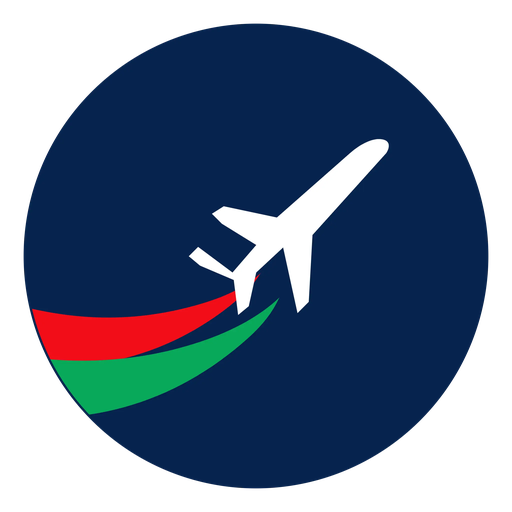
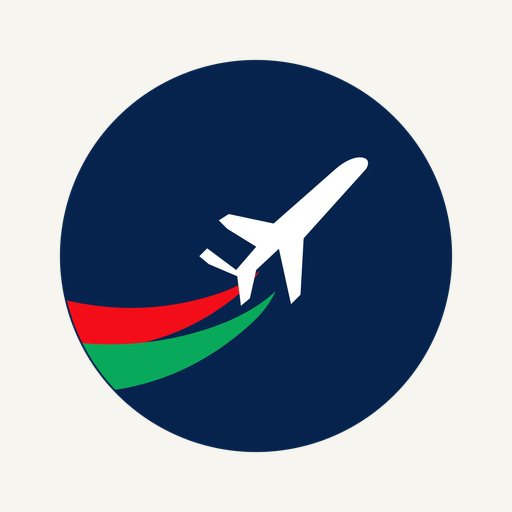
Fix carry interest contacts and optimize BridgeX branding

diff --git a/apps/web/client/src/pages/Deals.tsx b/apps/web/client/src/pages/Deals.tsx
@@ -9,7 +9,7 @@ import { useEffect, useMemo, useState } from "react";
 type Deal = { id: string; match_type: string; sender_id: string; traveler_id: string; status: string; sender_name: string | null; traveler_name: string | null; sender_phone: string; sender_delivery_address: string; traveler_phone: string; traveler_pickup_address: string; sender_last_read_at: string | null; traveler_last_read_at: string | null; last_message_body: string | null; last_message_at: string | null; last_message_sender_id: string | null; accepted_at: string };
 type DealMessage = { id: string; match_id: string; sender_id: string; body: string; created_at: string };
 type DealOrder = { id: string; match_id: string | null; reference: string; sender_id: string; traveler_id: string; fulfillment_status: string; escrow_status: string; updated_at: string };
-type SystemNotification = { id: string; type: string; title: string; body: string; link: string | null; created_at: string; read_at: string | null };
+type SystemNotification = { id: string; type: string; title: string; body: string; link: string | null; related_id: string | null; created_at: string; read_at: string | null };
 type SupportMessage = { id: string; enquiry_id: string; sender_id: string; body: string; created_at: string };
 
 const statusLabel = (value: string) => value.replace(/_/g, " ").replace(/\b\w/g, letter => letter.toUpperCase());
@@ -33,7 +33,8 @@ export default function Deals() {
   const selectedId = params.get("match") || "";
   const selectedSupportId = params.get("support") || "";
   const selected = useMemo(() => deals.find(deal => deal.id === selectedId), [deals, selectedId]);
-  const selectedSupport = useMemo(() => systemUpdates.find(update => update.id === selectedSupportId && isSupportUpdate(update)), [systemUpdates, selectedSupportId]);
+  const selectedSupport = useMemo(() => systemUpdates.find(update => isSupportUpdate(update) && (update.id === selectedSupportId || update.related_id === selectedSupportId)), [systemUpdates, selectedSupportId]);
+  const selectedSupportEnquiryId = selectedSupport?.related_id || selectedSupport?.id || "";
   const isDetail = Boolean(selected);
   const isTraveler = selected?.traveler_id === user?.id;
   const order = selected ? orders.find(item => item.match_id === selected.id) : undefined;
@@ -49,7 +50,7 @@ export default function Deals() {
     const [matchResult, orderResult, notificationResult] = await Promise.all([
       supabase.from("matches").select("id,match_type,sender_id,traveler_id,status,sender_name,traveler_name,sender_phone,sender_delivery_address,traveler_phone,traveler_pickup_address,sender_last_read_at,traveler_last_read_at,last_message_body,last_message_at,last_message_sender_id,accepted_at").order("last_message_at", { ascending: false, nullsFirst: false }).order("accepted_at", { ascending: false }).limit(250),
       supabase.from("orders").select("id,match_id,reference,sender_id,traveler_id,fulfillment_status,escrow_status,updated_at").or(`sender_id.eq.${user.id},traveler_id.eq.${user.id}`).order("updated_at", { ascending: false }).limit(500),
-      supabase.from("notifications").select("id,type,title,body,link,created_at,read_at").eq("user_id", user.id).order("created_at", { ascending: false }).limit(150),
+      supabase.from("notifications").select("id,type,title,body,link,related_id,created_at,read_at").eq("user_id", user.id).order("created_at", { ascending: false }).limit(150),
     ]);
     const error = matchResult.error?.message || orderResult.error?.message || notificationResult.error?.message;
     if (error) setNotice(error);
@@ -70,21 +71,21 @@ export default function Deals() {
   useEffect(() => { void load(); }, [user?.id]);
   useEffect(() => { if (selected?.id) void loadMessages(selected.id); else setMessages([]); }, [selected?.id]);
   useEffect(() => { if (!selectedSupport || selectedSupport.read_at) return; const readAt = new Date().toISOString(); void supabase.from("notifications").update({ read_at: readAt }).eq("id", selectedSupport.id).then(() => setSystemUpdates(current => current.map(update => update.id === selectedSupport.id ? { ...update, read_at: readAt } : update))); }, [selectedSupport?.id]);
-  useEffect(() => { if (!selectedSupport) { setSupportMessages([]); return; } void supabase.from("contact_enquiry_messages").select("id,enquiry_id,sender_id,body,created_at").eq("enquiry_id", selectedSupport.id).order("created_at", { ascending: true }).limit(200).then(({ data }) => setSupportMessages((data ?? []) as SupportMessage[])); }, [selectedSupport?.id]);
+  useEffect(() => { if (!selectedSupportEnquiryId) { setSupportMessages([]); return; } void supabase.from("contact_enquiry_messages").select("id,enquiry_id,sender_id,body,created_at").eq("enquiry_id", selectedSupportEnquiryId).order("created_at", { ascending: true }).limit(200).then(({ data, error }) => { if (error) setNotice(error.message); else setSupportMessages((data ?? []) as SupportMessage[]); }); }, [selectedSupportEnquiryId]);
 
   const send = async () => { if (!user || !selected || !draft.trim()) return; setBusy(true); const { error } = await supabase.from("match_messages").insert({ match_id: selected.id, sender_id: user.id, body: draft.trim() }); setBusy(false); if (error) return setNotice(error.message); setDraft(""); playSendTone(); await Promise.all([loadMessages(selected.id), load()]); };
   const updateMyContact = async () => { if (!selected) return; const phone = window.prompt("Your phone number for this protected deal", isTraveler ? selected.traveler_phone : selected.sender_phone); if (phone === null) return; const address = window.prompt("Your exact delivery or pickup address for this protected deal", isTraveler ? selected.traveler_pickup_address : selected.sender_delivery_address); if (address === null) return; setBusy(true); const { error } = await supabase.rpc("update_bridgex_match_contact", { p_match_id: selected.id, p_phone: phone, p_address: address }); setBusy(false); if (error) return setNotice(error.message); setNotice("Protected contact details updated and your counterpart was notified."); await load(); };
   const updateTravelerOrder = async (status: string) => { if (!order) return; setBusy(true); const { error } = await supabase.rpc("update_bridgex_traveler_order", { p_order_id: order.id, p_fulfillment_status: status }); setBusy(false); if (error) return setNotice(error.message); setNotice(`Order updated to ${statusLabel(status)}. The sender was notified.`); await load(); };
   const openSystemUpdate = async (update: SystemNotification) => { if (!update.read_at) await supabase.from("notifications").update({ read_at: new Date().toISOString() }).eq("id", update.id); window.location.assign(update.link || "/notifications"); };
-  const sendSupport = async () => { if (!selectedSupport || !supportDraft.trim()) return; setBusy(true); const { error } = await supabase.rpc("send_bridgex_support_message", { p_enquiry_id: selectedSupport.id, p_body: supportDraft.trim() }); setBusy(false); if (error) return setNotice(error.message); setSupportDraft(""); playSendTone(); const { data } = await supabase.from("contact_enquiry_messages").select("id,enquiry_id,sender_id,body,created_at").eq("enquiry_id", selectedSupport.id).order("created_at", { ascending: true }).limit(200); setSupportMessages((data ?? []) as SupportMessage[]); };
+  const sendSupport = async () => { if (!selectedSupportEnquiryId || !supportDraft.trim()) return; setBusy(true); const { error } = await supabase.rpc("send_bridgex_support_message", { p_enquiry_id: selectedSupportEnquiryId, p_body: supportDraft.trim() }); setBusy(false); if (error) return setNotice(error.message); setSupportDraft(""); playSendTone(); const { data, error: reloadError } = await supabase.from("contact_enquiry_messages").select("id,enquiry_id,sender_id,body,created_at").eq("enquiry_id", selectedSupportEnquiryId).order("created_at", { ascending: true }).limit(200); if (reloadError) return setNotice(reloadError.message); setSupportMessages((data ?? []) as SupportMessage[]); };
 
   if (loading) return <p className="rounded-2xl bg-white p-6 text-sm font-semibold text-[#647174]">Loading messages…</p>;
 
-  if (selectedSupport) { const visibleSupportMessages = supportMessages.length ? supportMessages : [{ id: selectedSupport.id, enquiry_id: selectedSupport.id, sender_id: "admin", body: selectedSupport.body, created_at: selectedSupport.created_at }]; return <div><Button onClick={() => window.location.assign("/dashboard/deals")} variant="outline" className="rounded-xl bg-white"><ArrowLeft className="mr-2 size-4" />Back to Inbox</Button><section className="mt-6 overflow-hidden rounded-3xl border border-[#172126]/10 bg-white"><div className="border-b border-[#172126]/8 p-5"><p className="text-xs font-bold uppercase tracking-[0.13em] text-[#2d8d62]">BridgeX support</p><h1 className="mt-1 text-2xl font-bold">BridgeX Admin</h1><p className="mt-1 text-sm text-[#637073]">Private support conversation</p></div><div className="min-h-[260px] space-y-3 bg-[#f6f4ee] p-5">{visibleSupportMessages.map(message => <div key={message.id} className={`max-w-[82%] rounded-2xl px-4 py-3 text-sm ${message.sender_id === user?.id ? "ml-auto bg-[#172126] text-white" : "bg-white text-[#172126]"}`}><p className={`font-bold ${message.sender_id === user?.id ? "text-[#c3d0c9]" : "text-[#176447]"}`}>{message.sender_id === user?.id ? "You" : "BridgeX Admin"}</p><p className="mt-2 whitespace-pre-wrap leading-6">{message.body}</p><p className={`mt-2 text-[10px] ${message.sender_id === user?.id ? "text-[#c3d0c9]" : "text-[#738083]"}`}>{new Date(message.created_at).toLocaleString()}</p></div>)}</div><div className="flex gap-2 border-t border-[#172126]/8 p-4"><Textarea value={supportDraft} onChange={event => setSupportDraft(event.target.value)} placeholder="Reply to BridgeX Admin…" className="min-h-11 flex-1 rounded-xl" /><Button onClick={() => void sendSupport()} disabled={busy || !supportDraft.trim()} className="h-11 rounded-xl bg-[#172126]"><Send className="size-4" /></Button></div></section></div>; }
+  if (selectedSupport) { const visibleSupportMessages = supportMessages.length ? supportMessages : [{ id: selectedSupport.id, enquiry_id: selectedSupportEnquiryId, sender_id: "admin", body: selectedSupport.body, created_at: selectedSupport.created_at }]; return <div><Button onClick={() => window.location.assign("/dashboard/deals")} variant="outline" className="rounded-xl bg-white"><ArrowLeft className="mr-2 size-4" />Back to Inbox</Button>{notice && <p className="mt-5 rounded-xl bg-[#f8e8e5] px-3 py-2 text-sm font-semibold text-[#9b4b3e]">{notice}</p>}<section className="mt-6 overflow-hidden rounded-3xl border border-[#172126]/10 bg-white"><div className="border-b border-[#172126]/8 p-5"><p className="text-xs font-bold uppercase tracking-[0.13em] text-[#2d8d62]">BridgeX support</p><h1 className="mt-1 text-2xl font-bold">BridgeX Admin</h1><p className="mt-1 text-sm text-[#637073]">Private support conversation</p></div><div className="min-h-[260px] space-y-3 bg-[#f6f4ee] p-5">{visibleSupportMessages.map(message => <div key={message.id} className={`max-w-[82%] rounded-2xl px-4 py-3 text-sm ${message.sender_id === user?.id ? "ml-auto bg-[#172126] text-white" : "bg-white text-[#172126]"}`}><p className={`font-bold ${message.sender_id === user?.id ? "text-[#c3d0c9]" : "text-[#176447]"}`}>{message.sender_id === user?.id ? "You" : "BridgeX Admin"}</p><p className="mt-2 whitespace-pre-wrap leading-6">{message.body}</p><p className={`mt-2 text-[10px] ${message.sender_id === user?.id ? "text-[#c3d0c9]" : "text-[#738083]"}`}>{new Date(message.created_at).toLocaleString()}</p></div>)}</div><div className="flex gap-2 border-t border-[#172126]/8 p-4"><Textarea value={supportDraft} onChange={event => setSupportDraft(event.target.value)} placeholder="Reply to BridgeX Admin…" className="min-h-11 flex-1 rounded-xl" /><Button onClick={() => void sendSupport()} disabled={busy || !supportDraft.trim()} className="h-11 rounded-xl bg-[#172126]"><Send className="size-4" /></Button></div></section></div>; }
 
   const supportUpdates = systemUpdates.filter(isSupportUpdate);
   const otherSystemUpdates = systemUpdates.filter(update => !isSupportUpdate(update)).slice(0, 30);
-  if (!isDetail) return <div><div><p className="text-xs font-bold uppercase tracking-[0.16em] text-[#2d8d62]">Protected communication</p><h1 className="mt-2 font-display text-4xl font-bold tracking-[-0.055em]">Inbox</h1><p className="mt-2 text-sm text-[#637073]">Accepted protected deals</p></div>{notice && <p className="mt-5 rounded-xl bg-[#f8e8e5] px-3 py-2 text-sm font-semibold text-[#9b4b3e]">{notice}</p>}<div className="mt-7 overflow-hidden rounded-3xl border border-[#172126]/10 bg-white">{deals.length ? deals.map(deal => <button key={deal.id} onClick={() => openDeal(deal.id)} className="flex w-full items-start gap-3 border-b border-[#172126]/6 px-5 py-4 text-left transition hover:bg-[#f0f7f2]"><span className="grid size-10 shrink-0 place-items-center rounded-full bg-[#dff5ea] text-sm font-bold text-[#176447]">{counterpart(deal).slice(0, 1).toUpperCase()}</span><span className="min-w-0 flex-1"><span className="flex items-center justify-between gap-2"><span className="truncate text-sm font-bold">{counterpart(deal)}</span><span className="shrink-0 text-[11px] text-[#687579]">{displayTime(deal.last_message_at || deal.accepted_at)}</span></span><span className="mt-1 flex items-center gap-2"><span className={`truncate text-xs ${unread(deal) ? "font-bold text-[#172126]" : "text-[#687579]"}`}>{deal.last_message_body || `${deal.match_type === "offer" ? "Traveler offer" : "Carry-space interest"} accepted`}</span>{unread(deal) && <span aria-label="Unread message" className="size-2 shrink-0 rounded-full bg-[#2d8d62]" />}</span></span></button>) : <div className="p-10 text-center"><ShieldCheck className="mx-auto size-8 text-[#2d8d62]" /><h2 className="mt-4 font-bold">No accepted match yet.</h2><p className="mt-2 text-sm text-[#647174]">Accepted offers and interests will appear here as protected conversations.</p></div>}</div>{supportUpdates.length > 0 && <section className="mt-8"><div className="flex items-center gap-2"><MessageCircle className="size-4 text-[#2d8d62]" /><h2 className="font-bold">BridgeX Admin</h2></div><div className="mt-3 overflow-hidden rounded-3xl border border-[#172126]/10 bg-white">{supportUpdates.map(update => <button key={update.id} onClick={() => window.location.assign(`/dashboard/deals?support=${encodeURIComponent(update.id)}`)} className="flex w-full items-start gap-3 border-b border-[#172126]/6 px-5 py-4 text-left transition hover:bg-[#f8faf7]"><span className="grid size-10 shrink-0 place-items-center rounded-full bg-[#dff5ea] text-sm font-bold text-[#176447]">B</span><span className="min-w-0"><span className="flex items-center gap-3"><span className="text-sm font-bold">BridgeX Admin</span><span className="text-[11px] text-[#687579]">{displayTime(update.created_at)}</span>{!update.read_at && <span aria-label="Unread support reply" className="size-2 rounded-full bg-[#e2a33f]" />}</span><span className="mt-1 block truncate text-xs text-[#687579]">{update.body}</span></span></button>)}</div></section>}<section className="mt-8"><div className="flex items-center gap-2"><Bell className="size-4 text-[#2d8d62]" /><h2 className="font-bold">Updates</h2></div><p className="mt-1 text-xs text-[#687579]">Newest 30 notifications</p><div className="mt-3 overflow-hidden rounded-3xl border border-[#172126]/10 bg-white">{otherSystemUpdates.length ? otherSystemUpdates.map(update => <button key={update.id} onClick={() => void openSystemUpdate(update)} className="flex w-full items-start gap-3 border-b border-[#172126]/6 px-5 py-4 text-left transition hover:bg-[#f8faf7]"><span className={`mt-1.5 size-2 shrink-0 rounded-full ${update.read_at ? "bg-[#d2d8d5]" : "bg-[#e2a33f]"}`} /><span className="min-w-0"><span className="flex items-center justify-between gap-3"><span className="truncate text-sm font-bold">{update.title}</span><span className="shrink-0 text-[11px] text-[#687579]">{displayTime(update.created_at)}</span></span><span className="mt-1 block truncate text-xs text-[#687579]">{update.body}</span></span></button>) : <p className="p-5 text-sm text-[#647174]">No updates yet.</p>}</div></section></div>;
+  if (!isDetail) return <div><div><p className="text-xs font-bold uppercase tracking-[0.16em] text-[#2d8d62]">Protected communication</p><h1 className="mt-2 font-display text-4xl font-bold tracking-[-0.055em]">Inbox</h1><p className="mt-2 text-sm text-[#637073]">Accepted protected deals</p></div>{notice && <p className="mt-5 rounded-xl bg-[#f8e8e5] px-3 py-2 text-sm font-semibold text-[#9b4b3e]">{notice}</p>}<div className="mt-7 overflow-hidden rounded-3xl border border-[#172126]/10 bg-white">{deals.length ? deals.map(deal => <button key={deal.id} onClick={() => openDeal(deal.id)} className="flex w-full items-start gap-3 border-b border-[#172126]/6 px-5 py-4 text-left transition hover:bg-[#f0f7f2]"><span className="grid size-10 shrink-0 place-items-center rounded-full bg-[#dff5ea] text-sm font-bold text-[#176447]">{counterpart(deal).slice(0, 1).toUpperCase()}</span><span className="min-w-0 flex-1"><span className="flex items-center justify-between gap-2"><span className="truncate text-sm font-bold">{counterpart(deal)}</span><span className="shrink-0 text-[11px] text-[#687579]">{displayTime(deal.last_message_at || deal.accepted_at)}</span></span><span className="mt-1 flex items-center gap-2"><span className={`truncate text-xs ${unread(deal) ? "font-bold text-[#172126]" : "text-[#687579]"}`}>{deal.last_message_body || `${deal.match_type === "offer" ? "Traveler offer" : "Carry-space interest"} accepted`}</span>{unread(deal) && <span aria-label="Unread message" className="size-2 shrink-0 rounded-full bg-[#2d8d62]" />}</span></span></button>) : <div className="p-10 text-center"><ShieldCheck className="mx-auto size-8 text-[#2d8d62]" /><h2 className="mt-4 font-bold">No accepted match yet.</h2><p className="mt-2 text-sm text-[#647174]">Accepted offers and interests will appear here as protected conversations.</p></div>}</div>{supportUpdates.length > 0 && <section className="mt-8"><div className="flex items-center gap-2"><MessageCircle className="size-4 text-[#2d8d62]" /><h2 className="font-bold">BridgeX Admin</h2></div><div className="mt-3 overflow-hidden rounded-3xl border border-[#172126]/10 bg-white">{supportUpdates.map(update => <button key={update.id} onClick={() => window.location.assign(`/dashboard/deals?support=${encodeURIComponent(update.related_id || update.id)}`)} className="flex w-full items-start gap-3 border-b border-[#172126]/6 px-5 py-4 text-left transition hover:bg-[#f8faf7]"><span className="grid size-10 shrink-0 place-items-center rounded-full bg-[#dff5ea] text-sm font-bold text-[#176447]">B</span><span className="min-w-0"><span className="flex items-center gap-3"><span className="text-sm font-bold">BridgeX Admin</span><span className="text-[11px] text-[#687579]">{displayTime(update.created_at)}</span>{!update.read_at && <span aria-label="Unread support reply" className="size-2 rounded-full bg-[#e2a33f]" />}</span><span className="mt-1 block truncate text-xs text-[#687579]">{update.body}</span></span></button>)}</div></section>}<section className="mt-8"><div className="flex items-center gap-2"><Bell className="size-4 text-[#2d8d62]" /><h2 className="font-bold">Updates</h2></div><p className="mt-1 text-xs text-[#687579]">Newest 30 notifications</p><div className="mt-3 overflow-hidden rounded-3xl border border-[#172126]/10 bg-white">{otherSystemUpdates.length ? otherSystemUpdates.map(update => <button key={update.id} onClick={() => void openSystemUpdate(update)} className="flex w-full items-start gap-3 border-b border-[#172126]/6 px-5 py-4 text-left transition hover:bg-[#f8faf7]"><span className={`mt-1.5 size-2 shrink-0 rounded-full ${update.read_at ? "bg-[#d2d8d5]" : "bg-[#e2a33f]"}`} /><span className="min-w-0"><span className="flex items-center justify-between gap-3"><span className="truncate text-sm font-bold">{update.title}</span><span className="shrink-0 text-[11px] text-[#687579]">{displayTime(update.created_at)}</span></span><span className="mt-1 block truncate text-xs text-[#687579]">{update.body}</span></span></button>) : <p className="p-5 text-sm text-[#647174]">No updates yet.</p>}</div></section></div>;
   if (!selected) return <p className="rounded-2xl bg-white p-6 text-sm text-[#647174]">This protected conversation is no longer available.</p>;
 
   const dealOrderCount = orders.filter(item => (item.sender_id === user?.id && item.traveler_id === counterpartId(selected)) || (item.traveler_id === user?.id && item.sender_id === counterpartId(selected))).length;

diff --git a/apps/web/client/src/pages/InterestPage.tsx b/apps/web/client/src/pages/InterestPage.tsx
@@ -23,13 +23,18 @@ export default function InterestPage() {
   const [weight, setWeight] = useState("");
   const [offer, setOffer] = useState("");
   const [deliveryRequiredBy, setDeliveryRequiredBy] = useState("");
+  const [deliveryRecipientName, setDeliveryRecipientName] = useState("");
+  const [deliveryPhone, setDeliveryPhone] = useState("");
+  const [deliveryAddress, setDeliveryAddress] = useState("");
+  const [deliveryCity, setDeliveryCity] = useState("");
+  const [deliveryCountry, setDeliveryCountry] = useState("");
   const [loading, setLoading] = useState(true);
   const [message, setMessage] = useState("");
   const [id] = useState(() => new URLSearchParams(window.location.search).get("listing"));
 
   useEffect(() => {
     if (!id) return void setLoading(false);
-    void supabase.from("carry_listings").select("id,user_id,origin_country,origin_city,destination_country,destination_city,available_weight_kg,departure_at,estimated_delivery_at,price_bdt,currency,accepted_categories,accepted_item_quantities").eq("id", id).eq("status", "open").maybeSingle().then(({ data }) => { setListing(data as Listing | null); setLoading(false); });
+    void supabase.from("carry_listings").select("id,user_id,origin_country,origin_city,destination_country,destination_city,available_weight_kg,departure_at,estimated_delivery_at,price_bdt,currency,accepted_categories,accepted_item_quantities").eq("id", id).eq("status", "open").maybeSingle().then(({ data }) => { const nextListing = data as Listing | null; setListing(nextListing); setDeliveryCountry(nextListing?.destination_country ?? ""); setDeliveryCity(nextListing?.destination_city ?? ""); setLoading(false); });
   }, [id]);
 
   const currency = listing?.currency || "BDT";
@@ -40,10 +45,10 @@ export default function InterestPage() {
     event.preventDefault();
     if (!isAuthenticated || !user) return go("/access");
     if (!listing || listing.user_id === user.id) return setMessage("Choose another open carry listing.");
-    if (!categories.length || !weight || !offer || !deliveryRequiredBy) return setMessage("Select categories and provide total weight, total offer, and the delivery-required date.");
+    if (!categories.length || !weight || !offer || !deliveryRequiredBy || !deliveryPhone.trim() || !deliveryAddress.trim() || !deliveryCity.trim() || !deliveryCountry.trim()) return setMessage("Select categories and provide the delivery date, total weight, offer, phone number, and exact destination delivery location.");
     const normalizedItemQuantities = Object.fromEntries(selectedQuantityItems.map(item => [item, Number(itemQuantities[item] || 0)]));
     if (Object.values(normalizedItemQuantities).some(quantityValue => quantityValue < 1)) return setMessage("Enter a correct quantity for every selected Mobile phone, Laptop, or Camera item.");
-    const payload = { listing_id: listing.id, sender_id: user.id, note: note.trim() || null, status: "pending", categories, quantity_description: quantity.trim() || null, item_quantities: normalizedItemQuantities, weight_kg: Number(weight), total_offer_bdt: Number(offer), currency, delivery_required_by: deliveryRequiredBy };
+    const payload = { listing_id: listing.id, sender_id: user.id, note: note.trim() || null, status: "pending", categories, quantity_description: quantity.trim() || null, item_quantities: normalizedItemQuantities, weight_kg: Number(weight), total_offer_bdt: Number(offer), currency, delivery_required_by: deliveryRequiredBy, delivery_recipient_name: deliveryRecipientName.trim() || null, delivery_phone: deliveryPhone.trim(), delivery_address: deliveryAddress.trim(), delivery_city: deliveryCity.trim(), delivery_country: deliveryCountry.trim() };
     const { data: existing, error: existingError } = await supabase.from("listing_interests").select("id,status").eq("listing_id", listing.id).eq("sender_id", user.id).maybeSingle();
     if (existingError) return setMessage(existingError.message);
     if (existing?.status === "accepted") return setMessage("Your interest in this carry space is already accepted. Open Messages to continue the protected deal.");
@@ -53,5 +58,5 @@ export default function InterestPage() {
     setMessage(existing ? "Your interest was updated and the traveler was notified." : "Interest sent. Best wishes for a safe and lawful delivery discussion.");
   };
 
-  return <PublicLayout><main className="px-5 py-10"><div className="mx-auto max-w-3xl"><Link href="/marketplace" className="text-sm font-bold text-[#176447]"><ArrowLeft className="mr-1 inline size-4" />Back to carry space</Link><h1 className="mt-6 font-display text-4xl font-bold">Show interest</h1><p className="mt-2 text-sm">{listing ? `${listing.origin_city}, ${listing.origin_country} → ${listing.destination_city}, ${listing.destination_country ?? "Destination"} · ${listing.available_weight_kg} kg available` : "Loading listing…"}</p>{listing?.estimated_delivery_at && <p className="mt-1 text-sm text-[#637073]">Traveler’s estimated delivery: {new Date(listing.estimated_delivery_at).toLocaleDateString()}</p>}<form onSubmit={submit} className="mt-6 grid gap-5 rounded-3xl bg-white p-6"><div className="rounded-2xl border border-[#e4c984] bg-[#fff9ea] p-4 text-xs leading-5 text-[#6e5624]"><AlertTriangle className="mr-1 inline size-4" />Do not send illegal, restricted, dangerous, or prohibited items. You are responsible for accurate descriptions, applicable customs, airline, carrier, and legal requirements. Do not conceal items or provide false information. Prohibited activity may lead to post removal, account restriction, cancellation, or reports to authorities where required by law.</div><div><b className="text-sm">Items and categories this traveler accepts</b><div className="mt-2 grid gap-2 rounded-xl border p-3 sm:grid-cols-2">{availableCategories.map(category => <label key={category} className="text-sm"><input type="checkbox" checked={categories.includes(category)} onChange={() => toggle(category)} /> {category}</label>)}</div></div>{selectedQuantityItems.length > 0 && <div className="grid gap-3 rounded-2xl bg-[#f4faf5] p-4 sm:grid-cols-3"><p className="text-sm font-bold sm:col-span-3">Exact item quantities</p>{selectedQuantityItems.map(item => <label key={item} className="grid gap-1 text-sm font-bold">{item}<Input required min="1" type="number" inputMode="numeric" value={itemQuantities[item] ?? ""} onChange={event => setItemQuantities(current => ({ ...current, [item]: event.target.value }))} placeholder="Quantity" /></label>)}</div>}<div className="grid gap-4 sm:grid-cols-2"><label className="text-sm font-bold">Other item quantity / packaging (optional)<Input value={quantity} onChange={event => setQuantity(event.target.value)} placeholder="e.g. 3 boxes" className="mt-2" /></label><label className="text-sm font-bold">Delivery Required Within — Date<Input required type="date" min={new Date().toISOString().slice(0, 10)} value={deliveryRequiredBy} onChange={event => setDeliveryRequiredBy(event.target.value)} className="mt-2" /></label><label className="text-sm font-bold">Total weight (kg)<Input required min="0.01" step="0.01" inputMode="decimal" value={weight} onChange={event => setWeight(event.target.value)} className="mt-2" /></label><label className="text-sm font-bold">Total offer ({currency})<Input required min="0" step="0.01" inputMode="decimal" value={offer} onChange={event => setOffer(event.target.value)} className="mt-2" /></label></div><Textarea value={note} onChange={event => setNote(event.target.value)} placeholder="Describe all selected items and handling needs." /><Button disabled={loading} className="h-11 bg-[#172126]">Send interest</Button>{message && <p className="rounded-xl bg-[#edf8f0] p-3 text-sm font-semibold text-[#176447]">{message}</p>}</form></div></main></PublicLayout>;
+  return <PublicLayout><main className="px-5 py-10"><div className="mx-auto max-w-3xl"><Link href="/marketplace" className="text-sm font-bold text-[#176447]"><ArrowLeft className="mr-1 inline size-4" />Back to carry space</Link><h1 className="mt-6 font-display text-4xl font-bold">Show interest</h1><p className="mt-2 text-sm">{listing ? `${listing.origin_city}, ${listing.origin_country} → ${listing.destination_city}, ${listing.destination_country ?? "Destination"} · ${listing.available_weight_kg} kg available` : "Loading listing…"}</p>{listing?.estimated_delivery_at && <p className="mt-1 text-sm text-[#637073]">Traveler’s estimated delivery: {new Date(listing.estimated_delivery_at).toLocaleDateString()}</p>}<form onSubmit={submit} className="mt-6 grid gap-5 rounded-3xl bg-white p-6"><div className="rounded-2xl border border-[#e4c984] bg-[#fff9ea] p-4 text-xs leading-5 text-[#6e5624]"><AlertTriangle className="mr-1 inline size-4" />Do not send illegal, restricted, dangerous, or prohibited items. You are responsible for accurate descriptions, applicable customs, airline, carrier, and legal requirements. Do not conceal items or provide false information. Prohibited activity may lead to post removal, account restriction, cancellation, or reports to authorities where required by law.</div><div><b className="text-sm">Items and categories this traveler accepts</b><div className="mt-2 grid gap-2 rounded-xl border p-3 sm:grid-cols-2">{availableCategories.map(category => <label key={category} className="text-sm"><input type="checkbox" checked={categories.includes(category)} onChange={() => toggle(category)} /> {category}</label>)}</div></div>{selectedQuantityItems.length > 0 && <div className="grid gap-3 rounded-2xl bg-[#f4faf5] p-4 sm:grid-cols-3"><p className="text-sm font-bold sm:col-span-3">Exact item quantities</p>{selectedQuantityItems.map(item => <label key={item} className="grid gap-1 text-sm font-bold">{item}<Input required min="1" type="number" inputMode="numeric" value={itemQuantities[item] ?? ""} onChange={event => setItemQuantities(current => ({ ...current, [item]: event.target.value }))} placeholder="Quantity" /></label>)}</div>}<div className="grid gap-4 sm:grid-cols-2"><label className="text-sm font-bold">Other item quantity / packaging (optional)<Input value={quantity} onChange={event => setQuantity(event.target.value)} placeholder="e.g. 3 boxes" className="mt-2" /></label><label className="text-sm font-bold">Delivery Required Within — Date<Input required type="date" min={new Date().toISOString().slice(0, 10)} value={deliveryRequiredBy} onChange={event => setDeliveryRequiredBy(event.target.value)} className="mt-2" /></label><label className="text-sm font-bold">Total weight (kg)<Input required min="0.01" step="0.01" inputMode="decimal" value={weight} onChange={event => setWeight(event.target.value)} className="mt-2" /></label><label className="text-sm font-bold">Total offer ({currency})<Input required min="0" step="0.01" inputMode="decimal" value={offer} onChange={event => setOffer(event.target.value)} className="mt-2" /></label></div><section className="rounded-2xl border border-[#dce7df] bg-[#f6fbf7] p-4"><p className="text-sm font-bold">Destination delivery details</p><p className="mt-1 text-xs leading-5 text-[#637073]">Only the traveler you match with can view these protected details. They are required so the traveler can complete delivery in the destination country.</p><div className="mt-4 grid gap-4 sm:grid-cols-2"><label className="text-sm font-bold">Recipient name (optional)<Input value={deliveryRecipientName} onChange={event => setDeliveryRecipientName(event.target.value)} placeholder="Recipient name" className="mt-2" /></label><label className="text-sm font-bold">Recipient phone number<Input required value={deliveryPhone} onChange={event => setDeliveryPhone(event.target.value)} placeholder="Country code and phone number" className="mt-2" /></label><label className="text-sm font-bold">Destination country<Input required value={deliveryCountry} onChange={event => setDeliveryCountry(event.target.value)} placeholder="Country" className="mt-2" /></label><label className="text-sm font-bold">Destination city<Input required value={deliveryCity} onChange={event => setDeliveryCity(event.target.value)} placeholder="City" className="mt-2" /></label></div><label className="mt-4 grid gap-2 text-sm font-bold">Exact delivery location and address<Textarea required value={deliveryAddress} onChange={event => setDeliveryAddress(event.target.value)} placeholder="Building, street, district, delivery instructions, and any safe landmark." /></label></section><Textarea value={note} onChange={event => setNote(event.target.value)} placeholder="Describe all selected items and handling needs." /><Button disabled={loading} className="h-11 bg-[#172126]">Send interest</Button>{message && <p className="rounded-xl bg-[#edf8f0] p-3 text-sm font-semibold text-[#176447]">{message}</p>}</form></div></main></PublicLayout>;
 }

diff --git a/apps/web/server/currencyBranding.test.ts b/apps/web/server/currencyBranding.test.ts
@@ -20,9 +20,35 @@ describe("BridgeX currency, cargo, support, and brand release safeguards", () =>
     expect(read("apps/web/client/src/pages/InterestPage.tsx")).toContain("Total offer ({currency})");
   });
 
+  it("requires protected destination delivery contacts for carry interests and persists them to the accepted match", () => {
+    const migration = read("supabase/migrations/202608191330_carry_interest_delivery_contacts.sql");
+    const interestPage = read("apps/web/client/src/pages/InterestPage.tsx");
+    expect(migration).toContain("delivery_phone text");
+    expect(migration).toContain("v_interest.delivery_address");
+    expect(migration).toContain("v_interest.delivery_phone");
+    expect(interestPage).toContain("Destination delivery details");
+    expect(interestPage).toContain("Exact delivery location and address");
+  });
+
+  it("uses the notification related enquiry ID for private BridgeX Admin replies", () => {
+    const deals = read("apps/web/client/src/pages/Deals.tsx");
+    expect(deals).toContain("const selectedSupportEnquiryId = selectedSupport?.related_id || selectedSupport?.id || \"\"");
+    expect(deals).toContain("p_enquiry_id: selectedSupportEnquiryId");
+    expect(deals).toContain("support=${encodeURIComponent(update.related_id || update.id)}");
+  });
+
   it("uses the supplied logo for shared web branding, browser favicon, and mobile app configuration", () => {
-    expect(read("apps/web/client/src/components/bridgex/Brand.tsx")).toContain("bridgex-logo.png");
+    expect(read("apps/web/client/src/components/bridgex/Brand.tsx")).toContain("/bridgex-logo.webp");
     expect(read("apps/web/client/index.html")).toContain("/favicon.ico");
     expect(read("apps/mobile/app.json")).toContain("./assets/icon.png");
+    expect(read("apps/mobile/app.json")).toContain('"versionCode": 5');
+  });
+
+  it("pairs sound categories with lightweight visual feedback cues that respect motion preferences", () => {
+    const feedback = read("apps/web/client/src/lib/feedback.ts");
+    const styles = read("apps/web/client/src/index.css");
+    expect(feedback).toContain("showBridgeXVisualFeedback(kind)");
+    expect(styles).toContain(".bridgex-feedback-cue--success");
+    expect(styles).toContain("prefers-reduced-motion: reduce");
   });
 });

diff --git a/apps/web/client/src/lib/feedback.ts b/apps/web/client/src/lib/feedback.ts
@@ -1,9 +1,21 @@
 export type BridgeXFeedback = "tap" | "notice" | "success" | "warning" | "error";
 
 const feedbackPatterns: Record<BridgeXFeedback, number[]> = { tap: [440], notice: [587, 659], success: [523, 659, 784], warning: [440, 392], error: [277, 220] };
+const feedbackSymbols: Record<BridgeXFeedback, string> = { tap: "", notice: "•", success: "✓", warning: "!", error: "×" };
+
+function showBridgeXVisualFeedback(kind: BridgeXFeedback) {
+  if (window.matchMedia?.("(prefers-reduced-motion: reduce)").matches) return;
+  const cue = document.createElement("span");
+  cue.className = `bridgex-feedback-cue bridgex-feedback-cue--${kind}`;
+  cue.setAttribute("aria-hidden", "true");
+  cue.textContent = feedbackSymbols[kind];
+  document.body.appendChild(cue);
+  window.setTimeout(() => cue.remove(), kind === "tap" ? 320 : 760);
+}
 
 export function playBridgeXFeedback(kind: BridgeXFeedback = "tap") {
   try {
+    showBridgeXVisualFeedback(kind);
     const bridge = (window as Window & { ReactNativeWebView?: { postMessage: (message: string) => void } }).ReactNativeWebView;
     if (bridge) bridge.postMessage(JSON.stringify({ type: "BRIDGEX_FEEDBACK", kind }));
     const AudioContextClass = window.AudioContext || (window as Window & { webkitAudioContext?: typeof AudioContext }).webkitAudioContext;

diff --git a/apps/web/client/src/index.css b/apps/web/client/src/index.css
@@ -164,10 +164,40 @@
   button:active:not(:disabled), [role="button"]:active:not([aria-disabled="true"]) {
     transform: scale(0.97);
   }
+
+  .bridgex-feedback-cue {
+    position: fixed;
+    z-index: 10000;
+    top: max(0.9rem, env(safe-area-inset-top));
+    right: 1rem;
+    display: grid;
+    width: 1.7rem;
+    height: 1.7rem;
+    place-items: center;
+    border-radius: 999px;
+    color: white;
+    font-size: 1rem;
+    font-weight: 800;
+    pointer-events: none;
+    box-shadow: 0 12px 28px rgba(23, 33, 38, 0.18);
+    animation: bridgex-feedback-cue 680ms cubic-bezier(0.23, 1, 0.32, 1) forwards;
+  }
+
+  .bridgex-feedback-cue--tap { width: 0.8rem; height: 0.8rem; background: #2d8d62; animation-duration: 300ms; }
+  .bridgex-feedback-cue--notice { background: #3a7f9f; }
+  .bridgex-feedback-cue--success { background: #2d8d62; }
+  .bridgex-feedback-cue--warning { background: #d79b2b; }
+  .bridgex-feedback-cue--error { background: #b94c44; }
 }
 
 @media (prefers-reduced-motion: reduce) {
   .bridgex-accent-text { animation: none; }
+}
+
+@keyframes bridgex-feedback-cue {
+  0% { opacity: 0; transform: translateY(-0.3rem) scale(0.92); }
+  18% { opacity: 1; transform: translateY(0) scale(1); }
+  100% { opacity: 0; transform: translateY(-0.6rem) scale(0.98); }
 }
 
 @layer components {

diff --git a/apps/web/client/index.html b/apps/web/client/index.html
@@ -16,7 +16,7 @@
     <meta property="og:title" content="BridgeX — Global Carry & Delivery Marketplace" />
     <meta property="og:description" content="Match goods that need delivery with travelers and cargo carriers who have space, using protected deal workflows." />
     <meta property="og:url" content="https://bridgex.abdullahbinfahad.info/" />
-    <meta property="og:image" content="https://github.com/abdullahbinfahad/BridgeX/releases/download/windows-v1.0.0/bridgex-logo.png" />
+    <meta property="og:image" content="https://bridgex.abdullahbinfahad.info/bridgex-logo.webp" />
     <meta name="twitter:card" content="summary" />
     <meta name="twitter:title" content="BridgeX — Global Carry & Delivery Marketplace" />
     <meta name="twitter:description" content="A China-first marketplace for people sending goods and travelers or cargo carriers with available space." />

diff --git a/apps/web/client/src/components/bridgex/Brand.tsx b/apps/web/client/src/components/bridgex/Brand.tsx
@@ -1,11 +1,11 @@
 import { cn } from "@/lib/utils";
 
-const BRIDGEX_LOGO_URL = "https://github.com/abdullahbinfahad/BridgeX/releases/download/windows-v1.0.0/bridgex-logo.png";
+const BRIDGEX_LOGO_URL = "/bridgex-logo.webp";
 
 export function Brand({ compact = false, className }: { compact?: boolean; className?: string }) {
   return (
     <div className={cn("inline-flex items-center gap-2.5 text-[#172126]", className)}>
-      <img src={BRIDGEX_LOGO_URL} alt="BridgeX" className="size-9 rounded-xl object-cover shadow-[0_8px_22px_rgba(23,33,38,0.16)]" />
+      <img src={BRIDGEX_LOGO_URL} alt="BridgeX" width="36" height="36" decoding="async" className="size-9 rounded-xl object-cover shadow-[0_8px_22px_rgba(23,33,38,0.16)]" />
       {!compact && <span className="font-display text-xl font-bold tracking-[-0.05em]">BridgeX</span>}
     </div>
   );

diff --git a/scripts/prepare_bridgex_brand_assets.py b/scripts/prepare_bridgex_brand_assets.py
@@ -1,0 +1,53 @@
+from pathlib import Path
+from PIL import Image
+
+ROOT = Path(__file__).resolve().parents[1]
+SOURCE = Path("/home/ubuntu/webdev-static-assets/bridgex-logo.png")
+WEB_PUBLIC = ROOT / "apps/web/client/public"
+MOBILE_ASSETS = ROOT / "apps/mobile/assets"
+
+IVORY = (247, 245, 239, 255)
+
+
+def scaled_logo(size: int) -> Image.Image:
+    source = Image.open(SOURCE).convert("RGBA")
+    source.thumbnail((size, size), Image.Resampling.LANCZOS)
+    canvas = Image.new("RGBA", (size, size), (0, 0, 0, 0))
+    left = (size - source.width) // 2
+    top = (size - source.height) // 2
+    canvas.alpha_composite(source, (left, top))
+    return canvas
+
+
+def centered_logo(canvas_size: int, logo_size: int) -> Image.Image:
+    logo = scaled_logo(logo_size)
+    canvas = Image.new("RGBA", (canvas_size, canvas_size), (0, 0, 0, 0))
+    offset = (canvas_size - logo_size) // 2
+    canvas.alpha_composite(logo, (offset, offset))
+    return canvas
+
+
+WEB_PUBLIC.mkdir(parents=True, exist_ok=True)
+MOBILE_ASSETS.mkdir(parents=True, exist_ok=True)
+
+# Same-origin 160px WebP keeps the shared header mark lightweight while preserving the full supplied artwork.
+scaled_logo(160).save(WEB_PUBLIC / "bridgex-logo.webp", "WEBP", quality=82, method=6)
+
+# Legacy Android launcher icon: ivory canvas with a safely inset original BridgeX artwork.
+legacy = Image.new("RGBA", (512, 512), IVORY)
+legacy.alpha_composite(centered_logo(512, 432))
+legacy.convert("RGB").save(MOBILE_ASSETS / "icon.png", "PNG", optimize=True)
+
+# Adaptive icon foreground has ample transparent safe-zone padding; Android supplies the ivory background color.
+foreground = centered_logo(432, 288)
+foreground.save(MOBILE_ASSETS / "android-icon-foreground.png", "PNG", optimize=True)
+Image.new("RGB", (432, 432), IVORY[:3]).save(MOBILE_ASSETS / "android-icon-background.png", "PNG", optimize=True)
+
+# Android 13 themed icon: preserve the BridgeX silhouette with a monochrome white mask.
+mask = foreground.getchannel("A")
+monochrome = Image.new("RGBA", (432, 432), (255, 255, 255, 0))
+monochrome.putalpha(mask)
+monochrome.save(MOBILE_ASSETS / "android-icon-monochrome.png", "PNG", optimize=True)
+
+# Keep the mobile web favicon aligned with the new supplied mark.
+scaled_logo(192).save(MOBILE_ASSETS / "favicon.png", "PNG", optimize=True)

diff --git a/apps/web/todo.md b/apps/web/todo.md
@@ -171,3 +171,9 @@
 - [ ] Document safe desktop distribution limits and handle the user-requested new Expo-account workflow only with account-owner participation.
 - [x] Connect the rebuilt BridgeX Android source to Expo project 79a0cf5c-1667-471c-a9fd-4c79444363f8 and submit a fresh APK build.
 - [x] Apply the supplied BridgeX logo to web branding, favicon, Windows desktop packaging, Android application configuration, and distribution assets.
+- [x] Collect a carry-interest sender’s exact destination-country delivery address in the Show interest form and use it for protected-match acceptance.
+- [x] Repair member-side BridgeX Admin support replies so the private conversation sends against the correct contact enquiry record.
+- [ ] Replace Android adaptive icon source assets with correctly sized BridgeX logo variants and release a refreshed APK.
+- [x] Serve a compressed local BridgeX logo asset with lightweight dimensions instead of relying on an external GitHub image request.
+- [x] Add contextual visual feedback effects alongside the existing distinct action sound cues, respecting reduced-motion settings.
+- [x] Research a compliant third-party integration path for Chinese payment methods, including Alipay, WeChat Pay, and UnionPay, without enabling payments until merchant credentials and provider approval are available.
